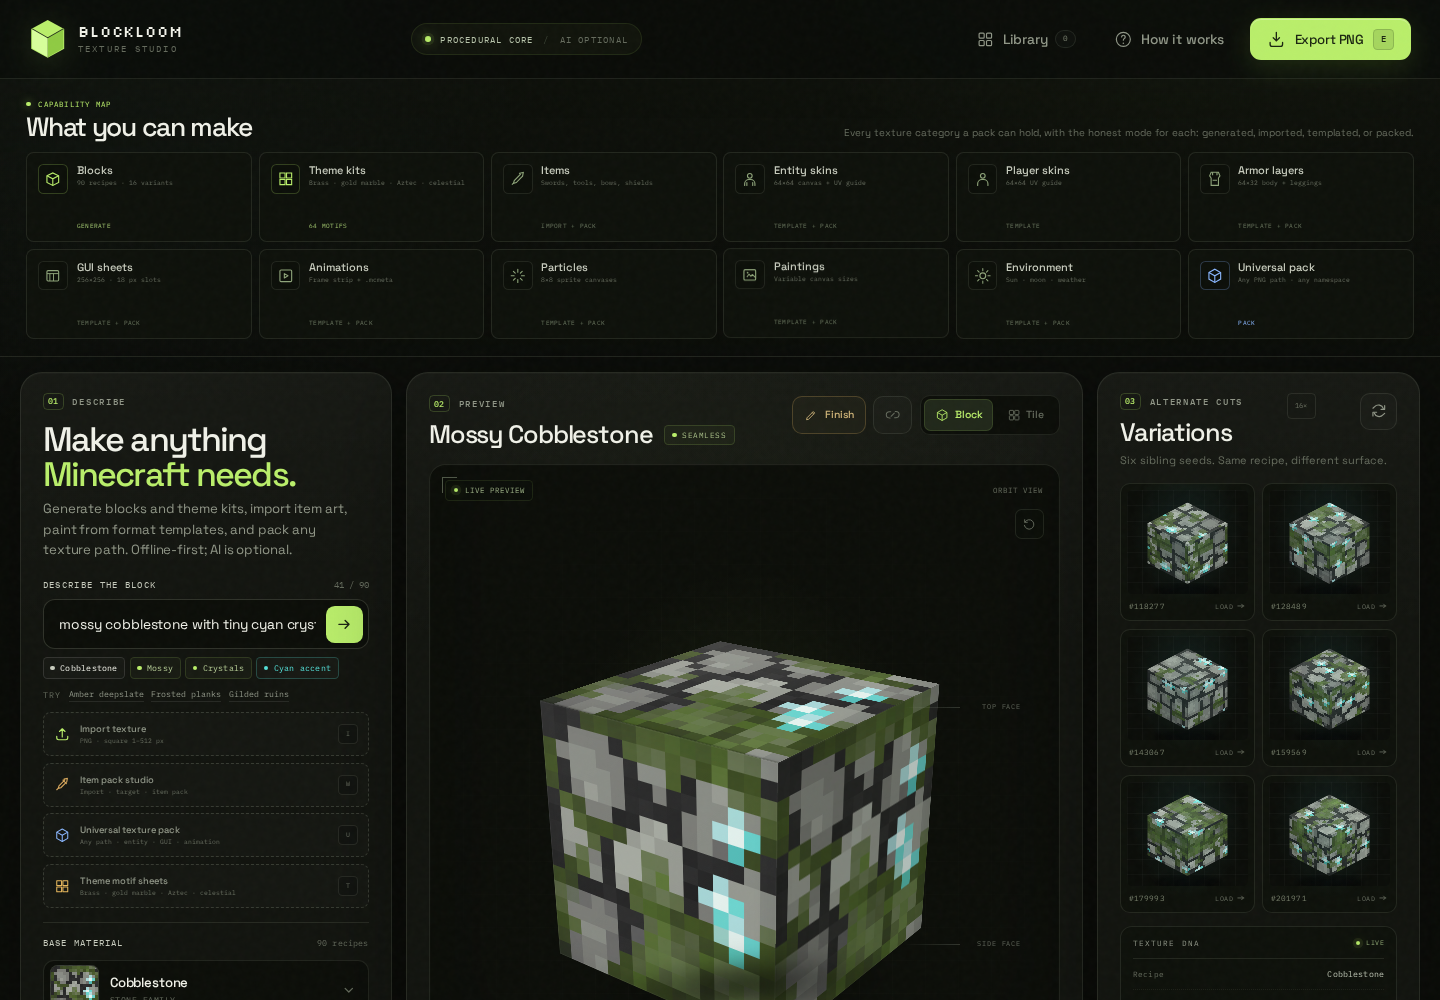
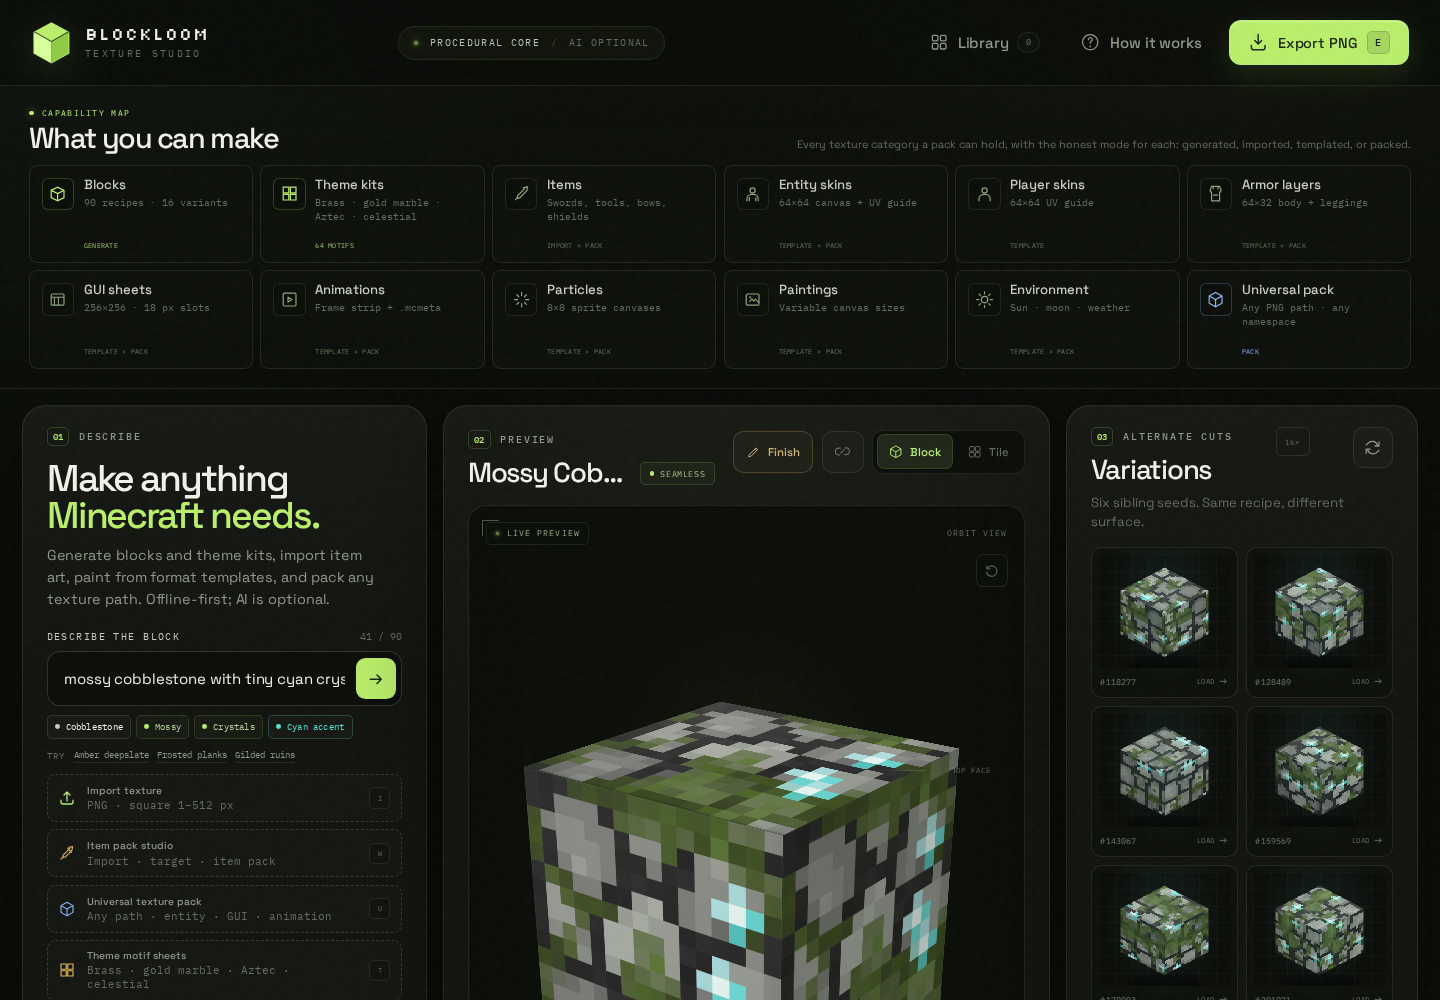
Increase UI legibility with responsive text scale

diff --git a/styles.css b/styles.css
@@ -3034,7 +3034,24 @@ body.is-dragging-file .drop-overlay { display: grid; }
 .any-pack-template-row .btn { height: 29px; font-size: 7px; }
 
 /* ---------- Global UI text scale ---------- */
-body { zoom: var(--ui-zoom, 1.1); }
+body { zoom: var(--ui-zoom, 1.2); }
+
+/* Legibility floor for the smallest labels. */
+small { font-size: 9px !important; }
+.make-copy small { font-size: 8.5px !important; }
+.make-copy strong { font-size: 11px; }
+.make-card em { font-size: 8px; }
+.make-title-row p { font-size: 11px; }
+.make-kicker, .eyebrow { font-size: 8.5px; }
+.shortcut-note { font-size: 8.5px; }
+.variations-sub { font-size: 11px; }
+.dna-row { font-size: 9px; }
+.field-label { font-size: 8.5px; }
+.item-field { font-size: 8px; }
+.item-control-head { font-size: 8px; }
+.item-note { font-size: 8px; }
+.footer-version, .site-footer { font-size: 8.5px; }
+.material-option span { font-size: 8px; }
 
 /* ---------- Front-page capability map ---------- */
 .make-strip { padding: 18px 24px 16px; border-bottom: 1px solid var(--line); background: linear-gradient(180deg, rgba(15,18,11,.55), rgba(9,11,7,.2)); }
@@ -3063,3 +3080,9 @@ body { zoom: var(--ui-zoom, 1.1); }
 .any-pack-health.is-warning { color: #ffbd6b; }
 .any-pack-health.is-ok { color: #9fc36d; }
 .any-entry-warning { color: #ffbd6b !important; }
+
+.make-copy strong { font-size: 11px !important; }
+@media (max-width: 560px) {
+  .make-grid { display: flex; overflow-x: auto; gap: 6px; scroll-snap-type: x mandatory; padding-bottom: 4px; }
+  .make-card { flex: 0 0 150px; min-height: 92px; scroll-snap-align: start; }
+}

diff --git a/index.html b/index.html
@@ -409,7 +409,7 @@
   <footer class="site-footer">
     <span>BLOCKLOOM / PROCEDURAL PIXEL TOOLS</span>
     <span class="footer-center">Built for block builders. Not affiliated with Mojang or Microsoft.</span>
-    <span class="footer-version"><button class="footer-update" id="fontScaleBtn" type="button">Text 110%</button><button class="footer-update" id="updateBtn" type="button" hidden>Check updates</button><a class="footer-api" id="footerApi" href="/api" target="_blank" rel="noopener" hidden>API</a><span>v1.10 · <span id="footerClock">LOCAL</span></span></span>
+    <span class="footer-version"><button class="footer-update" id="fontScaleBtn" type="button">Text 120%</button><button class="footer-update" id="updateBtn" type="button" hidden>Check updates</button><a class="footer-api" id="footerApi" href="/api" target="_blank" rel="noopener" hidden>API</a><span>v1.10 · <span id="footerClock">LOCAL</span></span></span>
   </footer>
 
   <!-- Material picker -->

diff --git a/js/app.js b/js/app.js
@@ -4077,9 +4077,10 @@ async function registerOfflineWorker() {
 }
 
 function initUiZoom() {
-  const key = 'blockloom-ui-zoom';
-  const steps = [1, 1.1, 1.2];
-  let value = 1.1;
+  const key = 'blockloom-ui-zoom-v2';
+  const steps = [1, 1.15, 1.3, 1.45, 1.6];
+  const preferred = window.innerWidth >= 1900 ? 1.3 : window.innerWidth <= 700 ? 1 : 1.2;
+  let value = preferred;
   try {
     const stored = Number(localStorage.getItem(key));
     if (steps.includes(stored)) value = stored;
